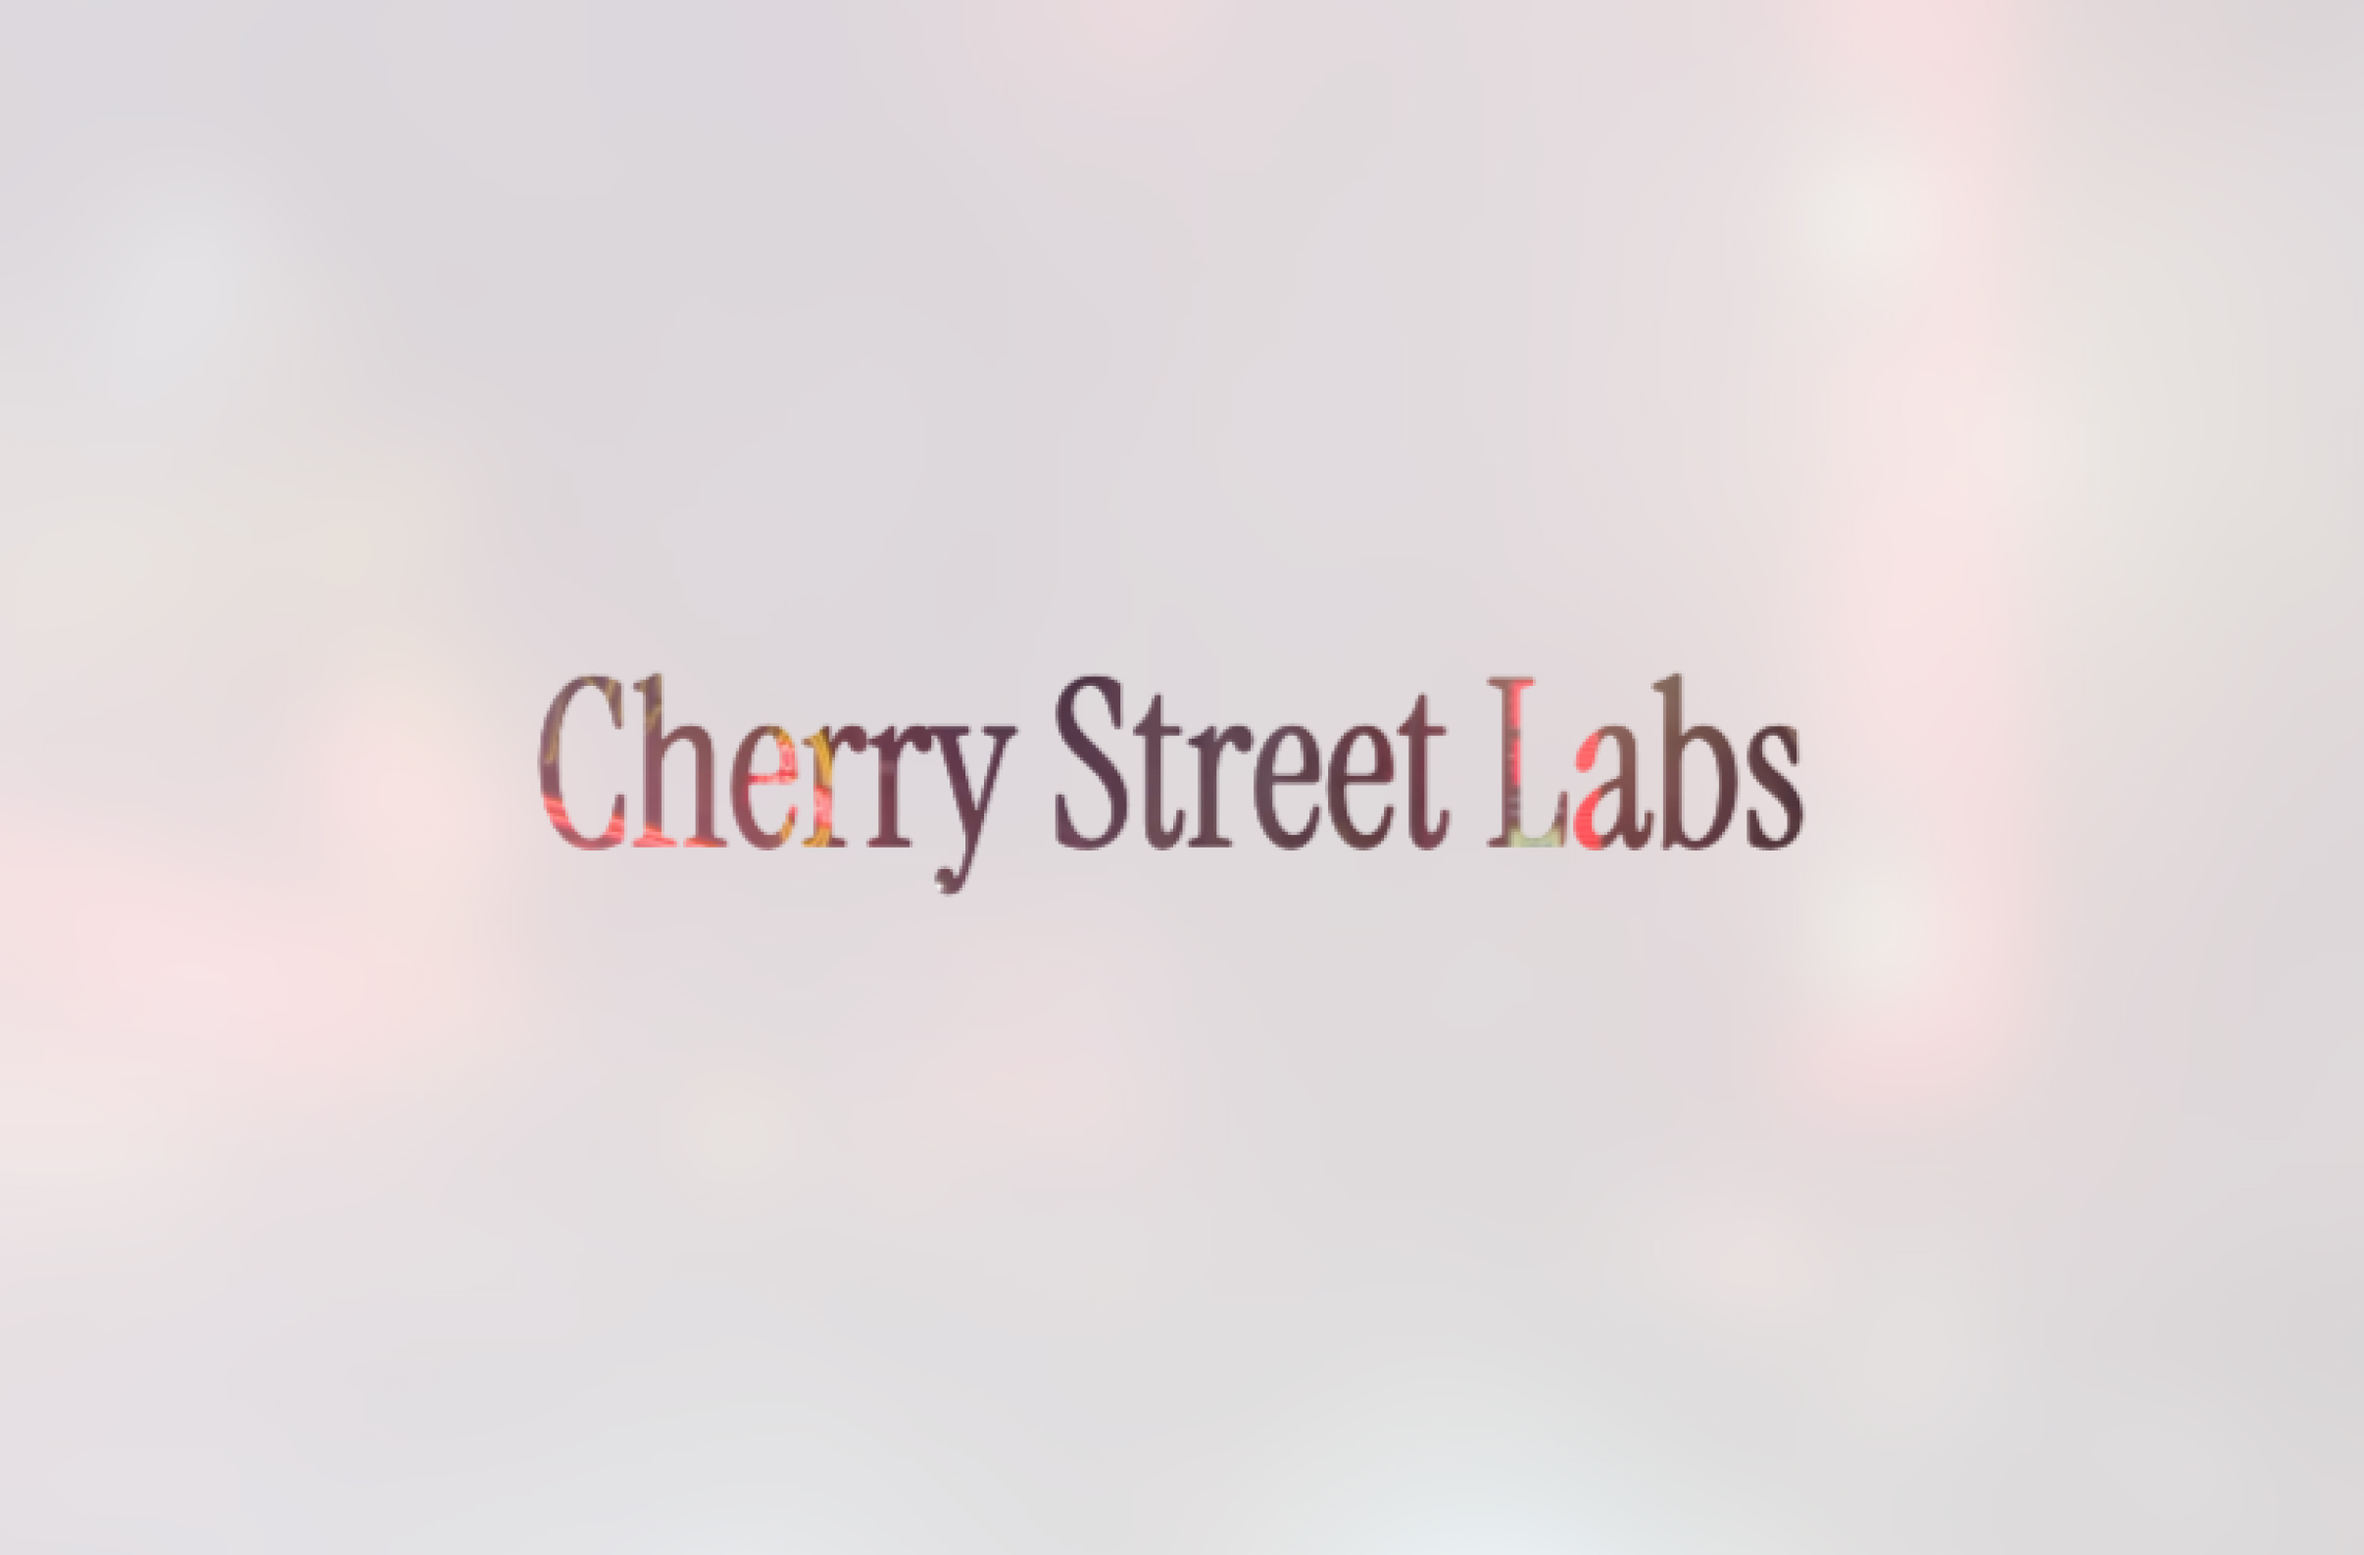
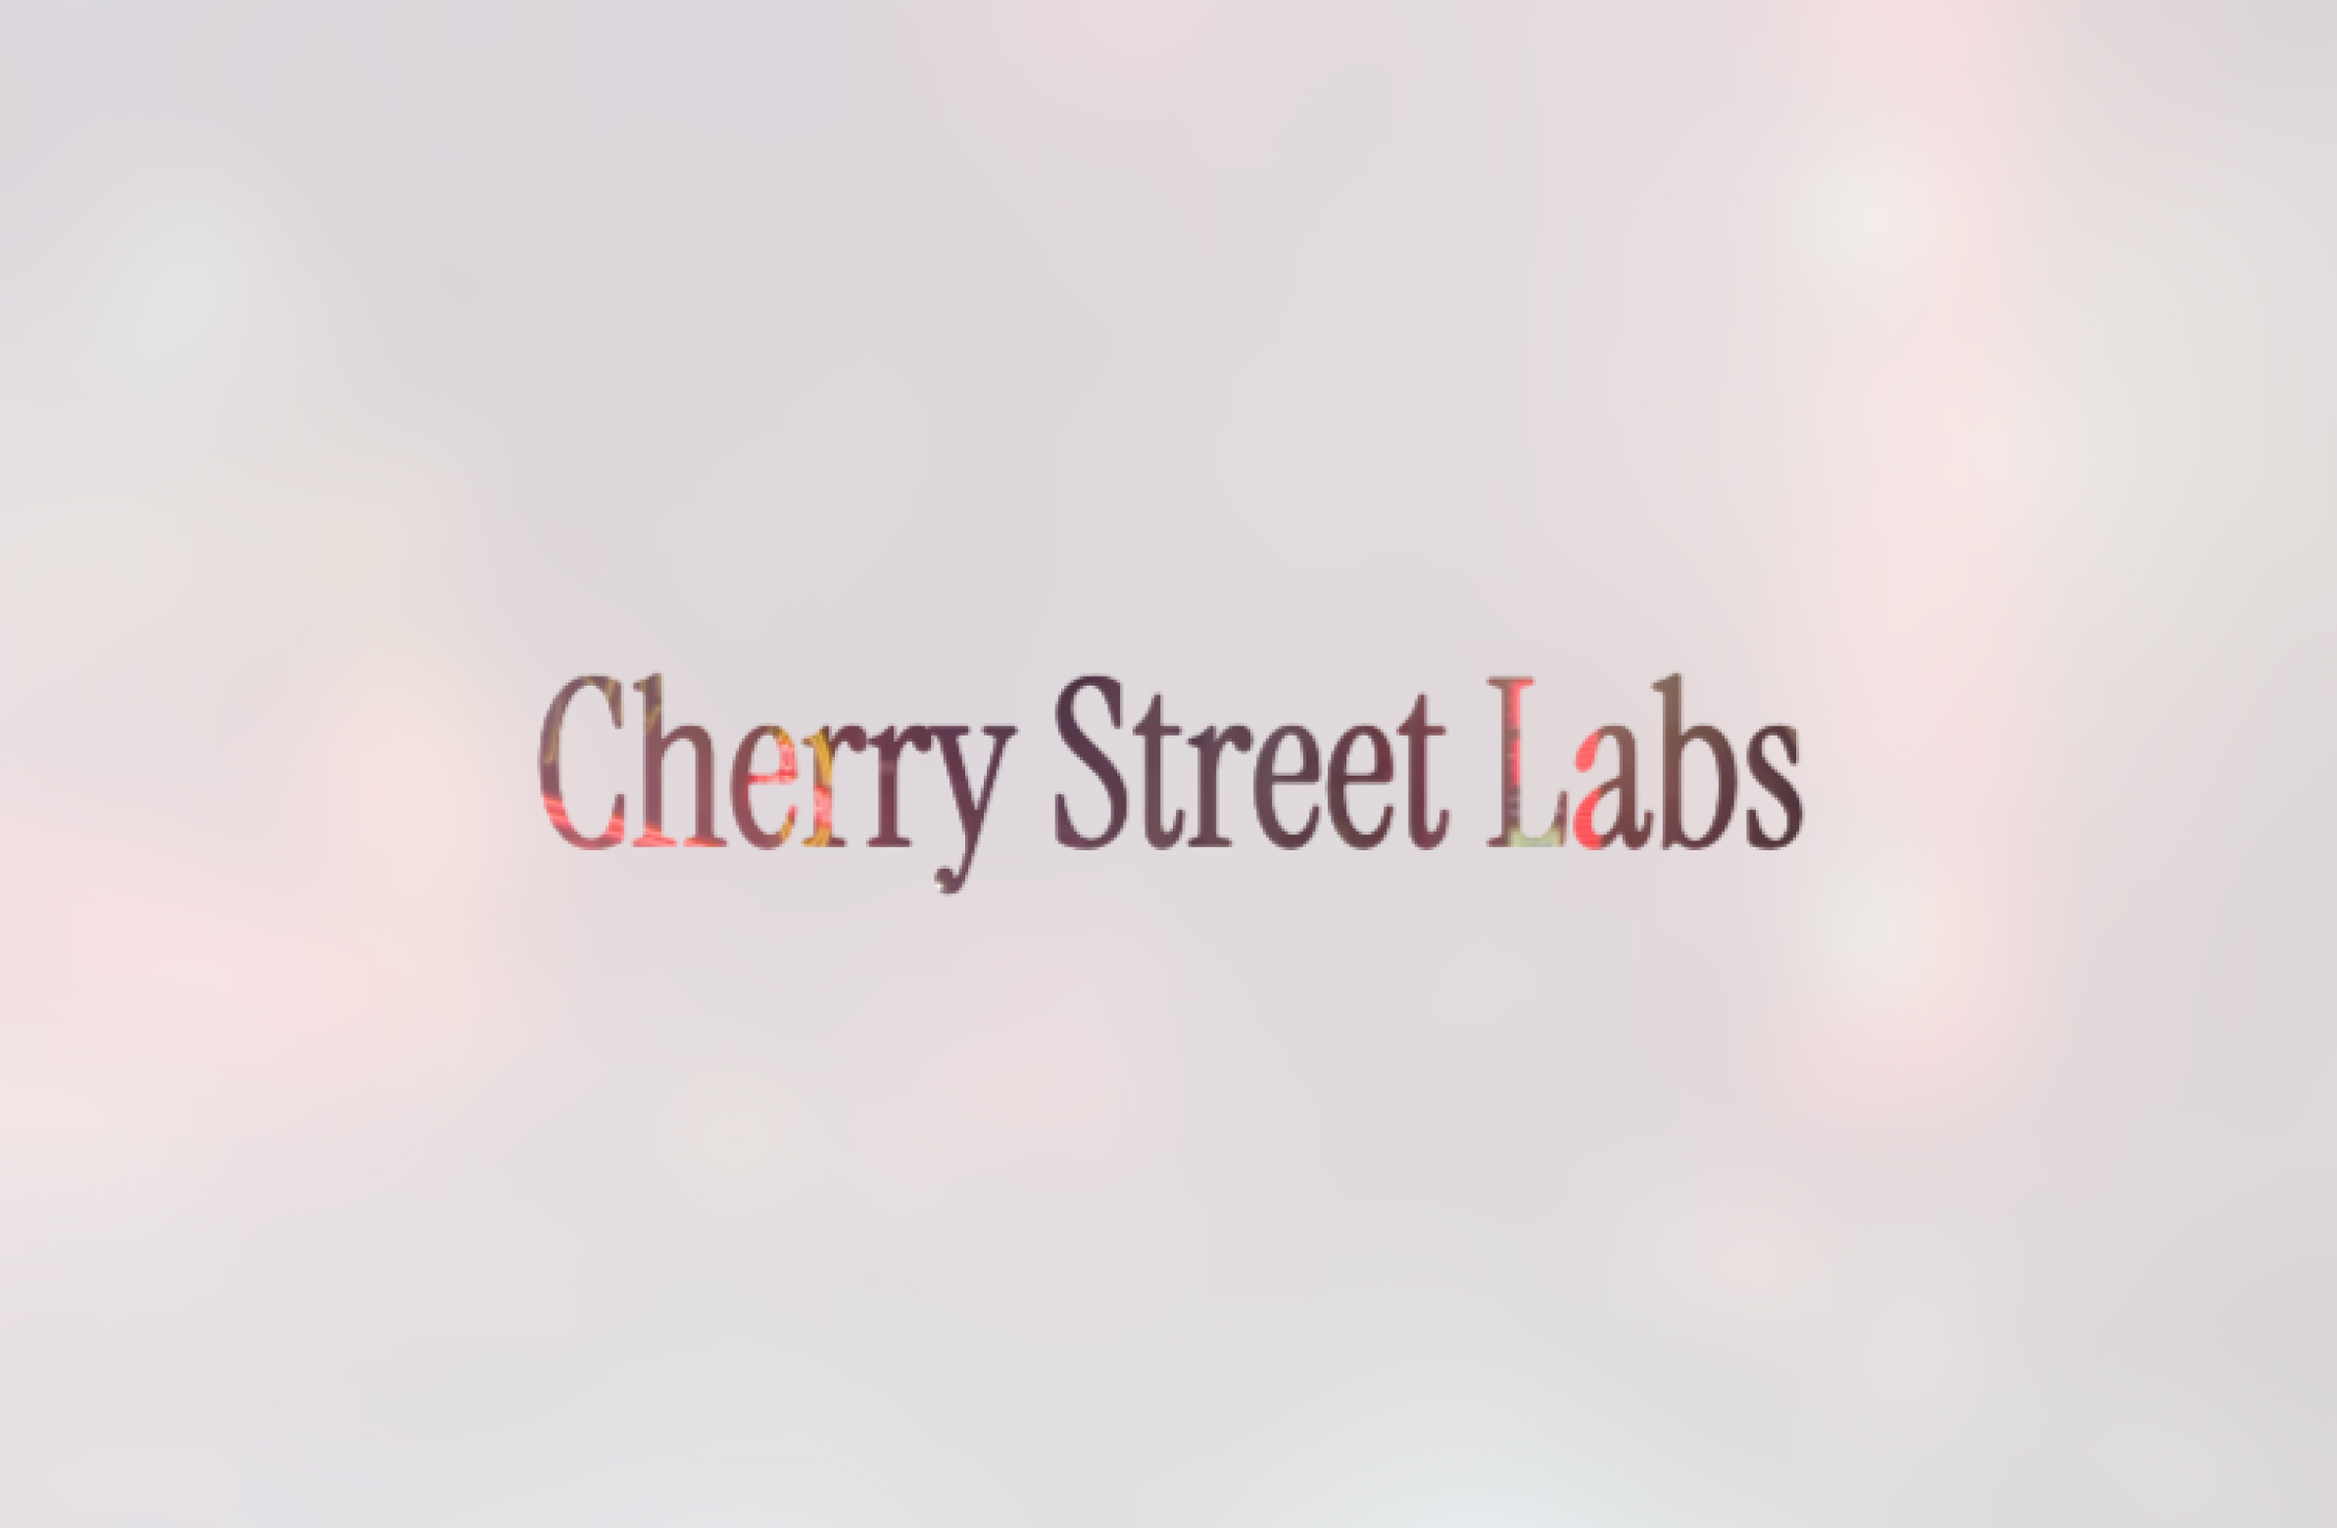
mobile tweak

Changed region(s): [[0.2172, 0.4308, 0.7757, 0.5846]]

diff --git a/index.html b/index.html
@@ -70,8 +70,8 @@
                 <mask id="mobile-mask" maskUnits="userSpaceOnUse" maskContentUnits="userSpaceOnUse">
                     <rect x="0" y="0" width="100%" height="100%" fill="black"/>
                     <text 
-                        x="21.5%" 
-                        y="65vh" 
+                        x="21.2%" 
+                        y="100%" 
                         text-anchor="middle" 
                         dominant-baseline="middle" 
                         fill="white"
